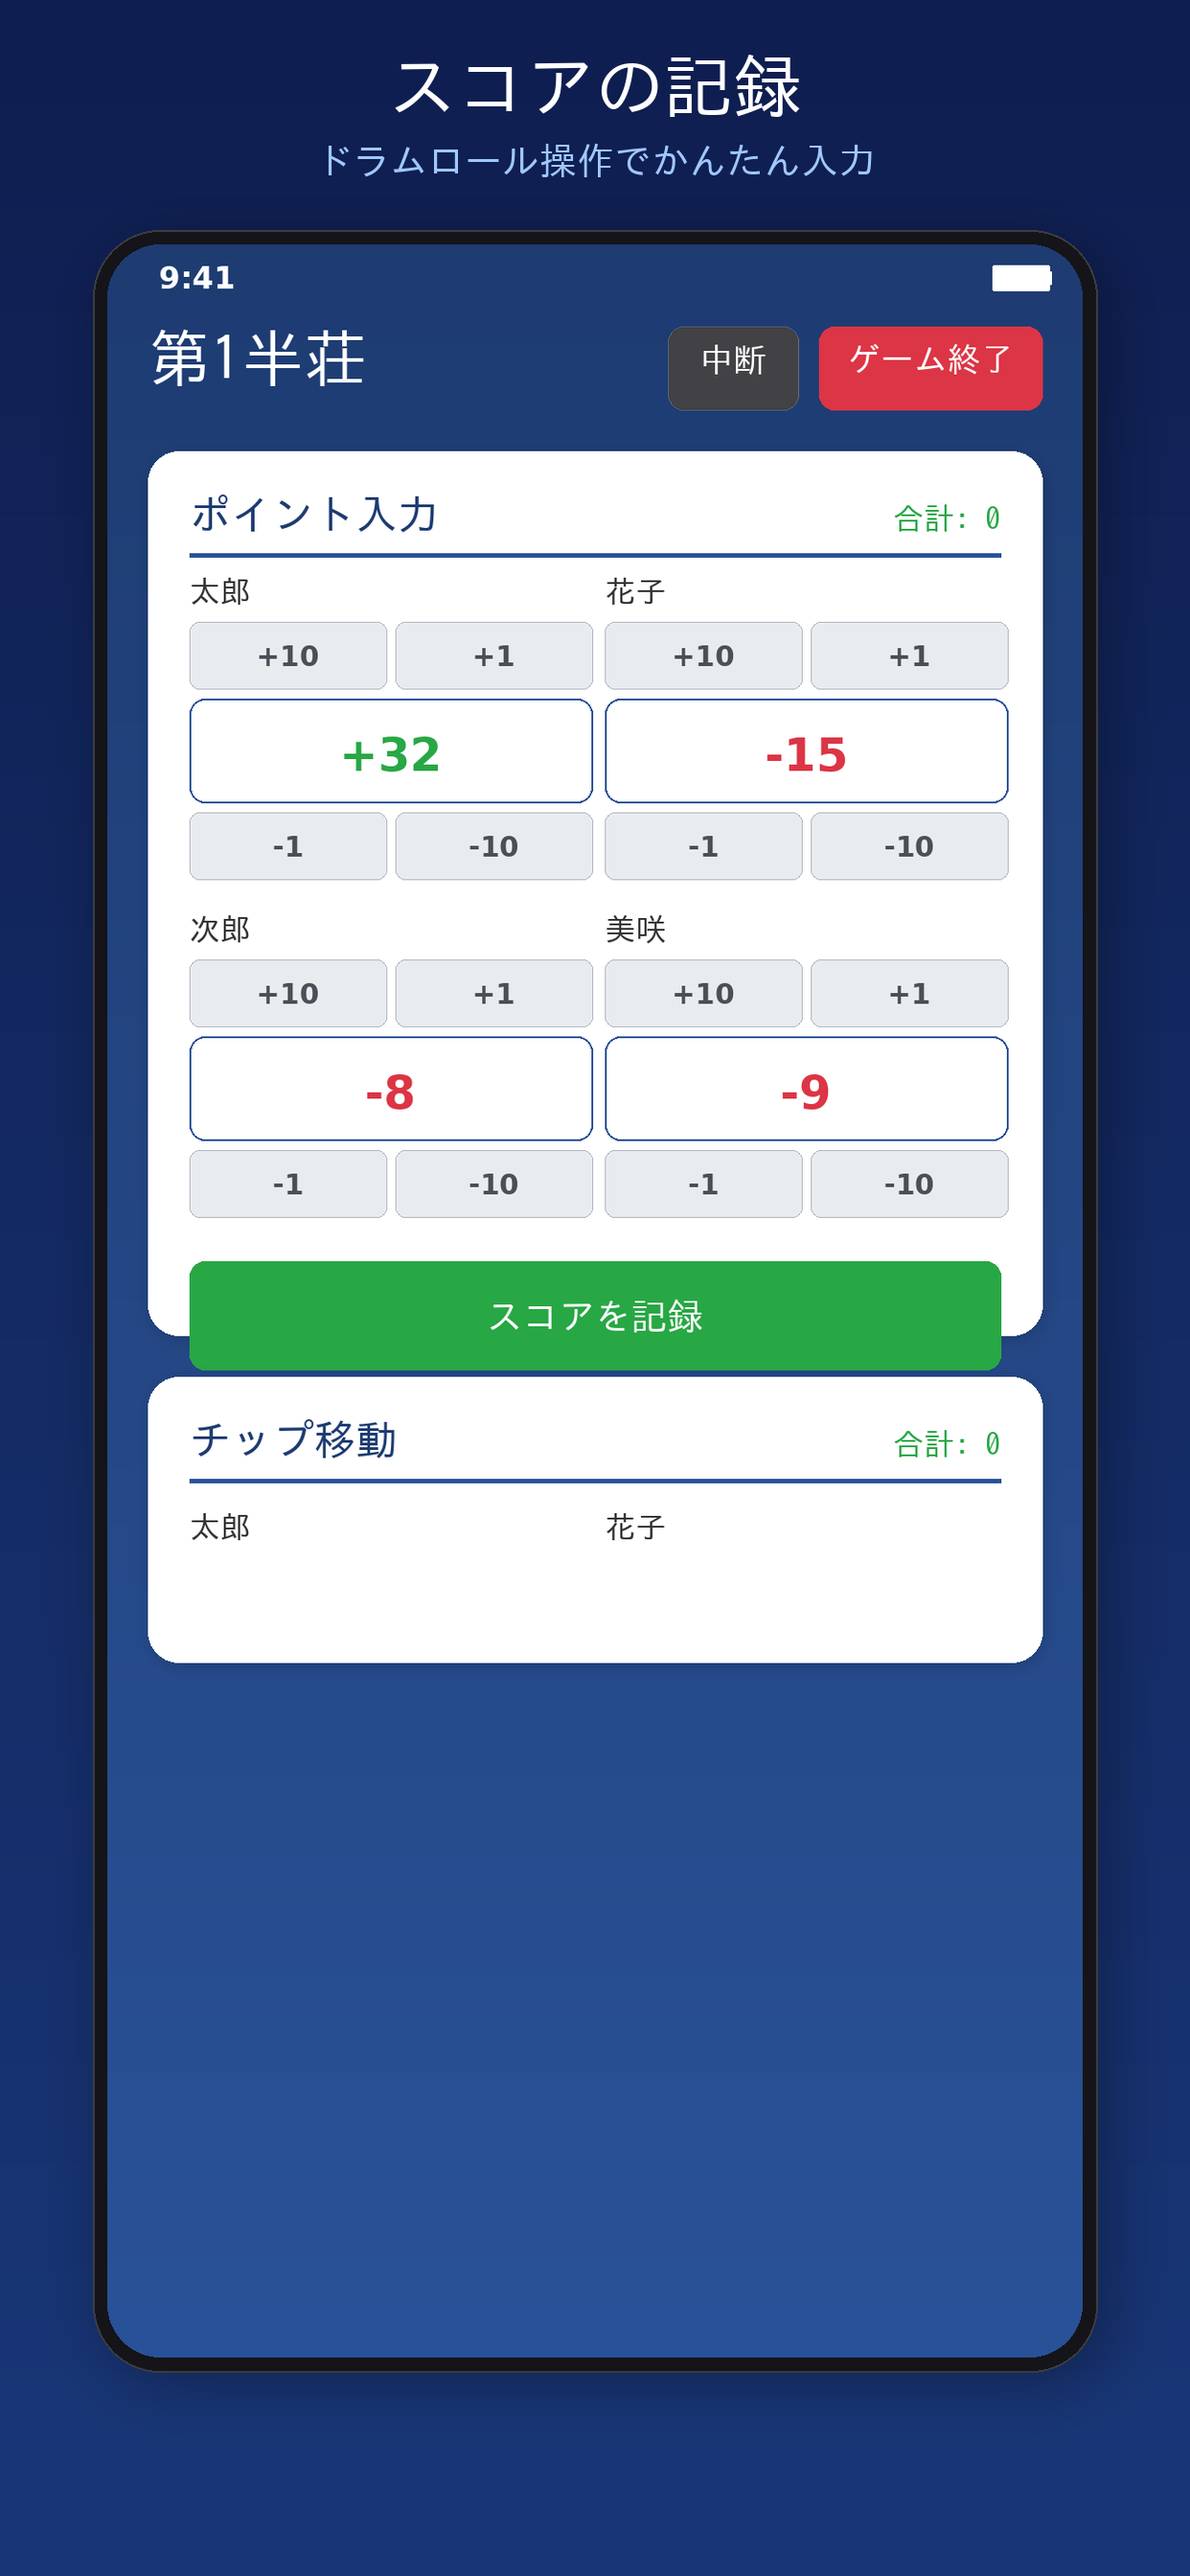
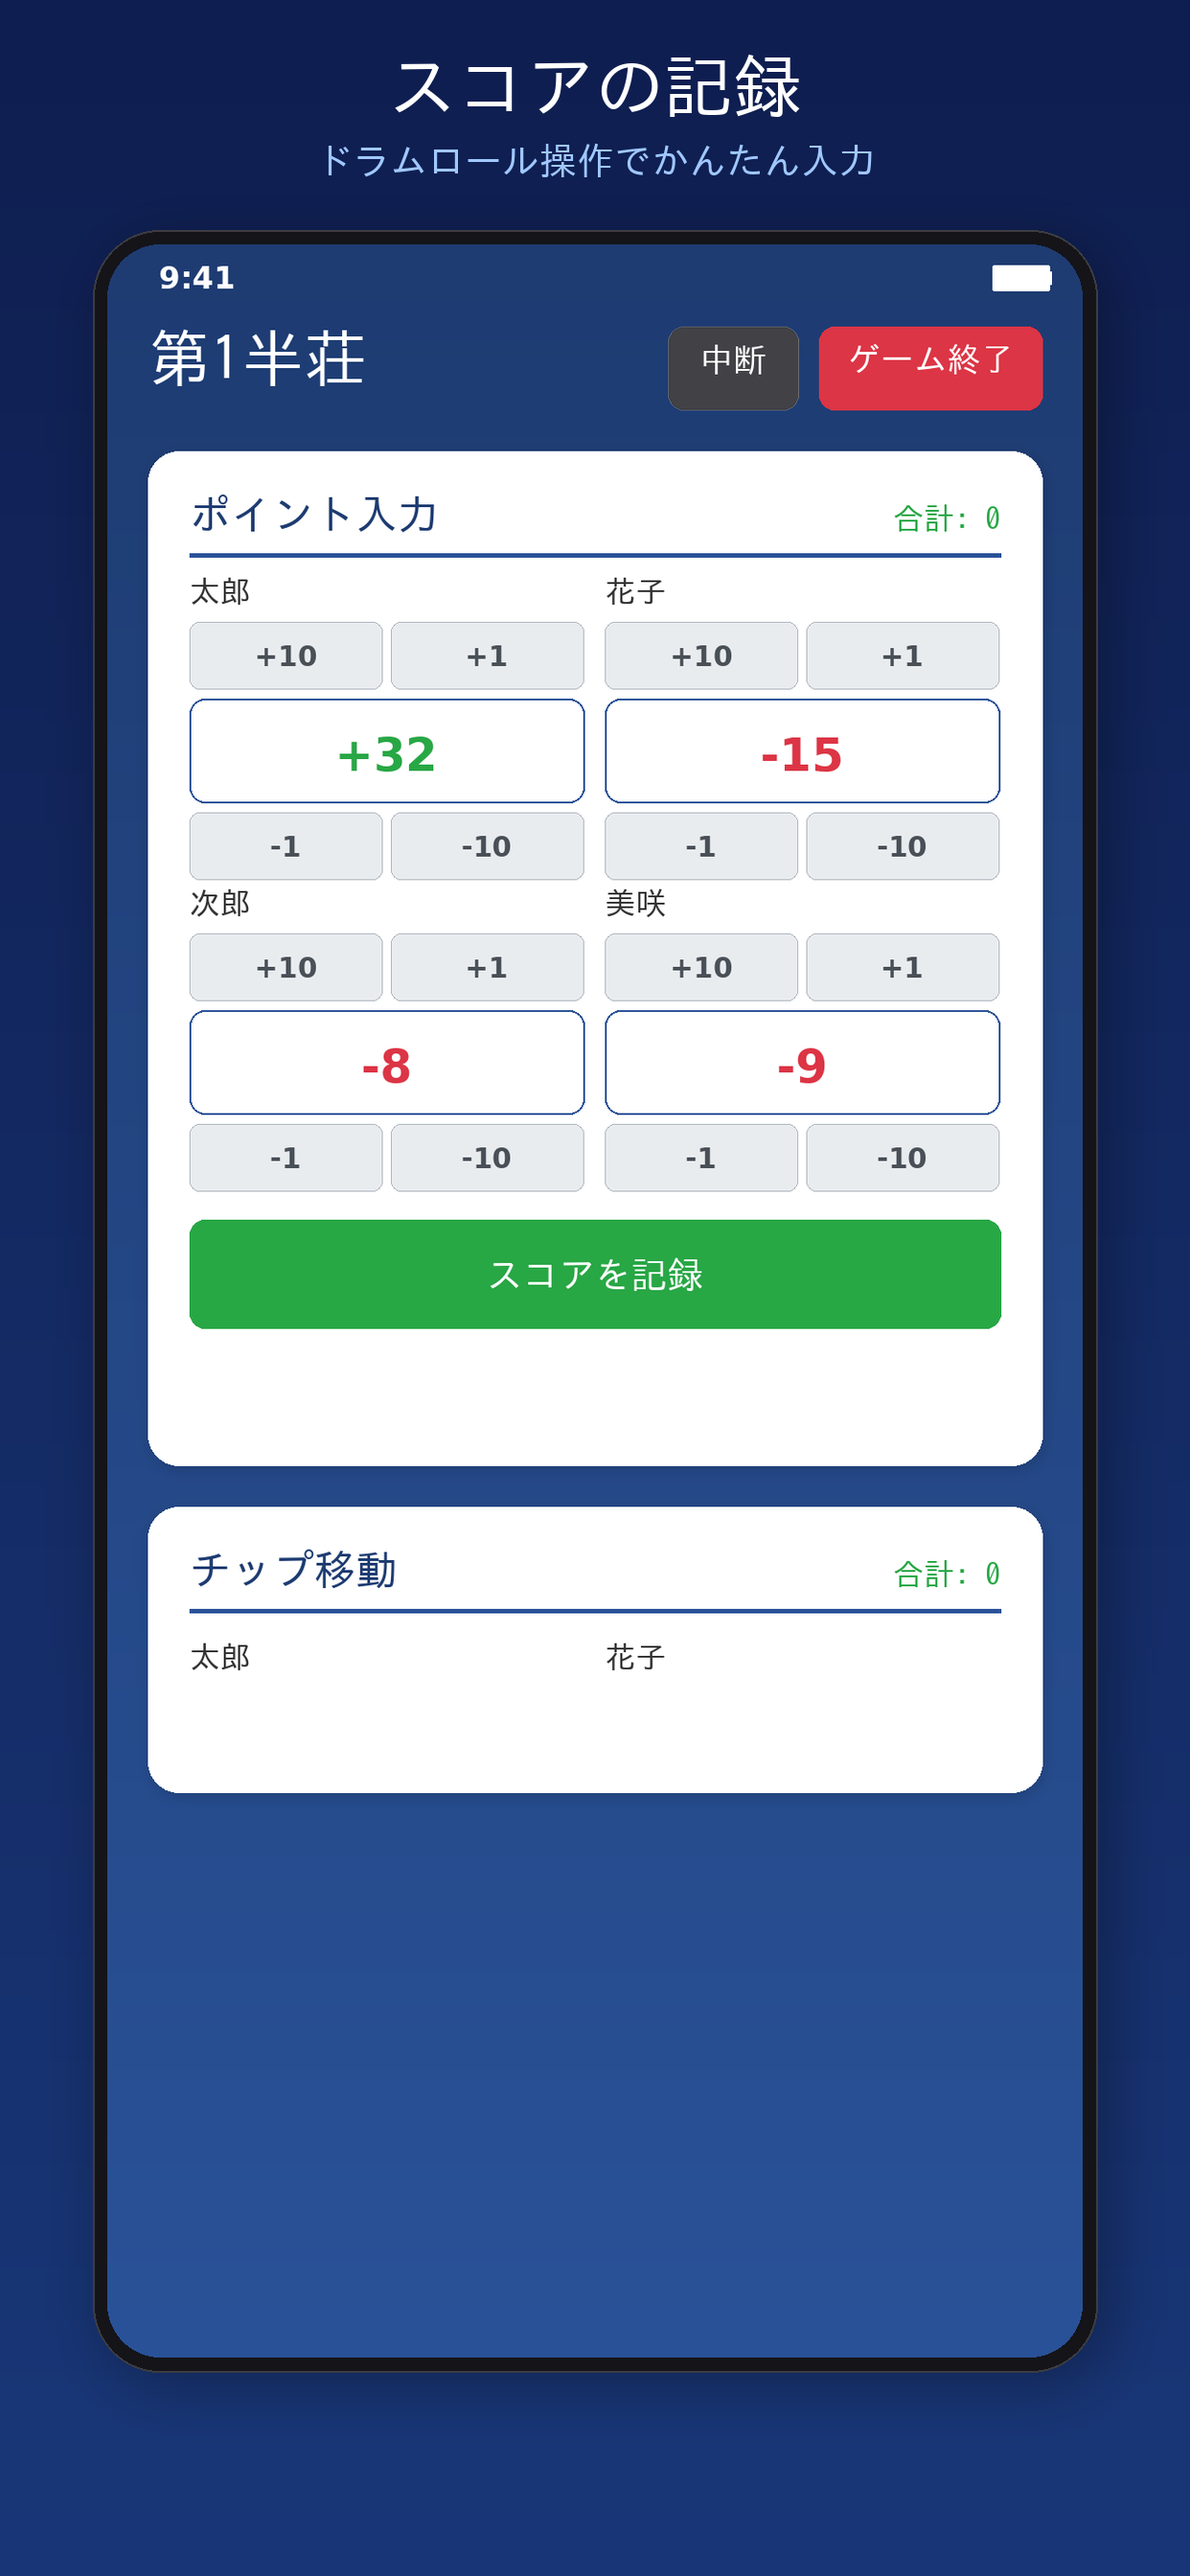
fix: スコア入力カードのはみ出しと記録履歴の左寄りを修正
- DrumRollInputの幅をbox_wパラメータで動的に受け取るよう変更
- カード内幅(dr_w)に合わせてドラムロール入力を描画し、はみ出しを解消
- カード高さをs(390)に拡大してボタンとの余白を確保
- 記録履歴の各セル内容（名前・順位バッジ・スコア値）を中央揃えに修正

https://claude.ai/code/session_01Q6nhLi3LEqTLgYHiVa6uSf

diff --git a/generate_assets.py b/generate_assets.py
@@ -375,30 +375,23 @@ class PhoneScreen:
             d.text((x + w - tw, y + self._s(4)), has_right, fill=GREEN, font=f_right)
         return line_y + self._s(8)
 
-    def draw_drumroll_input(self, x, y, label, value, positive=True):
+    def draw_drumroll_input(self, x, y, label, value, box_w=None):
         """Draw a DrumRollInput component matching DrumRollInput.tsx exactly."""
         d = self.draw
-        box_w = self._s(155)
+        if box_w is None:
+            box_w = self._s(155)
         # Label
         lf = font(self._s(12), jp=True)
         d.text((x, y), label, fill=DARK_TEXT, font=lf)
         y += self._s(18)
 
-        # Top buttons row: -10, -1, +1, +10
         btn_h = self._s(26)
         btn_gap = self._s(4)
-        btn_w = (box_w - 3 * btn_gap) // 4
-        top_labels = ["+10", "+1", "-1", "-10"]  # top row is increase/decrease
         bf = font(self._s(11), bold=True)
-        # Actually in the app: top row has +10, +1; bottom row has -1, -10
-        # Let me match exactly: top row = [+10, +1], bottom row = [-1, -10]
-        # But each row has 2 buttons side by side
-        # Actually the DrumRollInput has: top row 2 buttons, display, bottom row 2 buttons
-        # Top: [+10] [+1]
-        # Display: value
-        # Bottom: [-1] [-10]
-        top_btns = [("+10", GREEN), ("+1", GREEN)]
-        for i, (bl, bc) in enumerate(top_btns):
+
+        # Top row: [+10] [+1]
+        top_btns = ["+10", "+1"]
+        for i, bl in enumerate(top_btns):
             bx = x + i * (box_w // 2 + btn_gap // 2)
             bw = box_w // 2 - btn_gap // 2
             rrect(d, (bx, y, bx + bw, y + btn_h), self._s(4),
@@ -420,9 +413,9 @@ class PhoneScreen:
                fill=val_color, font=vf)
         y += disp_h + btn_gap
 
-        # Bottom buttons
-        bot_btns = [("-1", RED), ("-10", RED)]
-        for i, (bl, bc) in enumerate(bot_btns):
+        # Bottom row: [-1] [-10]
+        bot_btns = ["-1", "-10"]
+        for i, bl in enumerate(bot_btns):
             bx = x + i * (box_w // 2 + btn_gap // 2)
             bw = box_w // 2 - btn_gap // 2
             rrect(d, (bx, y, bx + bw, y + btn_h), self._s(4),
@@ -660,7 +653,7 @@ def generate_promo_score(output_path):
     cw = card_w - 2 * inner_pad
 
     # ── ポイント入力 Card ──
-    card_h = s(340)
+    card_h = s(390)
     ps.draw_card(card_x, card_y, card_w, card_h)
     d = ps.draw
     cy = card_y + inner_pad
@@ -669,16 +662,18 @@ def generate_promo_score(output_path):
 
     # DrumRoll inputs (2x2 grid)
     players_scores = [("太郎", 32), ("花子", -15), ("次郎", -8), ("美咲", -9)]
-    dr_w = (cw - s(8)) // 2
+    dr_gap = s(8)
+    dr_w = (cw - dr_gap) // 2
+    dr_row_h = s(120)
     for i, (name, val) in enumerate(players_scores):
         col = i % 2
         row = i // 2
-        dx = cx + col * (dr_w + s(8))
-        dy = cy + row * s(130)
-        ps.draw_drumroll_input(dx, dy, name, val)
+        dx = cx + col * (dr_w + dr_gap)
+        dy = cy + row * dr_row_h
+        ps.draw_drumroll_input(dx, dy, name, val, box_w=dr_w)
 
     # スコアを記録 button
-    btn_y = cy + 2 * s(130) + s(4)
+    btn_y = cy + 2 * dr_row_h + s(8)
     ps.draw_button(cx, btn_y, cw, s(42), "スコアを記録", GREEN)
 
     # ── チップ移動 Card (partial, below) ──
@@ -820,20 +815,26 @@ def generate_promo_summary(output_path):
         d.text((cx + s(8), ry + s(4)), label, fill=DARK_TEXT, font=label_f)
         d.text((cx + cw - s(60), ry + s(6)), "14:3" + str(ri), fill=GRAY_TEXT, font=time_f)
 
-        # Score cells (4 columns)
+        # Score cells (4 columns, centered within each cell)
         cell_w = cw // 4
         for ci, (pname, pval, prank) in enumerate(scores):
-            cell_x = cx + ci * cell_w + s(4)
+            cell_cx = cx + ci * cell_w + cell_w // 2  # center of cell
             cell_y = ry + s(24)
-            d.text((cell_x, cell_y), pname, fill=MED_TEXT, font=name_f)
-            # Rank badge
+            # Player name centered
+            ntw, _ = text_size(d, pname, name_f)
+            d.text((cell_cx - ntw // 2, cell_y), pname, fill=MED_TEXT, font=name_f)
+            # Rank badge centered
             rc = rank_colors.get(prank, RANK_GRAY)
             rtext = f"{prank}位"
-            rrect(d, (cell_x, cell_y + s(16), cell_x + s(24), cell_y + s(30)), s(6), fill=rc)
-            d.text((cell_x + s(4), cell_y + s(17)), rtext, fill=WHITE, font=rank_f)
-            # Value
+            rtw2, _ = text_size(d, rtext, rank_f)
+            badge_w = rtw2 + s(8)
+            rrect(d, (cell_cx - badge_w // 2, cell_y + s(16),
+                       cell_cx + badge_w // 2, cell_y + s(30)), s(6), fill=rc)
+            d.text((cell_cx - rtw2 // 2, cell_y + s(17)), rtext, fill=WHITE, font=rank_f)
+            # Value centered
             vc = GREEN if pval.startswith("+") else RED
-            d.text((cell_x, cell_y + s(34)), pval, fill=vc, font=val_f)
+            vtw, _ = text_size(d, pval, val_f)
+            d.text((cell_cx - vtw // 2, cell_y + s(34)), pval, fill=vc, font=val_f)
 
     phone_img = ps.get_image()
     promo = create_promo_frame(phone_img, "総合スコア & 履歴", "ランキングと全記録を一目で確認")
